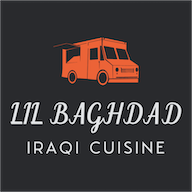
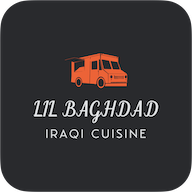
Add files via upload

diff --git a/serviceWorker.js b/serviceWorker.js
@@ -5,6 +5,12 @@ const assets = [
     '/style.css',
     '/script.js',
     '/images/logo.png',
+    '/images/favicon.ico',
+    '/images/icon-72x72.png',
+    '/images/icon-144x144.png',
+    '/images/icon-180x180.png',
+    '/images/icon-192x192.png',
+    '/images/icon-512x512.png',
     'https://images.ctfassets.net/rmkbw43wse32/7vHDStX66sFlyBG3zGN4yy/de4a5a535c3cf626cc1ba595b868e566/appetizer-8.webp',
     'https://images.ctfassets.net/rmkbw43wse32/3nqOM6BbLm032QdCjbfM9R/dea5cbd5c7731b1181a61abb1c34cfa5/appetizer-11.webp',
     'https://images.ctfassets.net/rmkbw43wse32/1Mx62N0otgAKKNYasqshdc/c199a39ff5c3ff771a0da894250566ab/appetizer-7.webp',

diff --git a/script.js b/script.js
@@ -1,5 +1,3 @@
-initApp()
-
 function createLoader() {
     const loader = document.querySelector('aside');
     setTimeout(() => {
@@ -145,6 +143,8 @@ async function initApp() {
         `
     }
 }
+
+initApp();
 
 window.addEventListener('scroll', () => {
     handlePageScroll()
